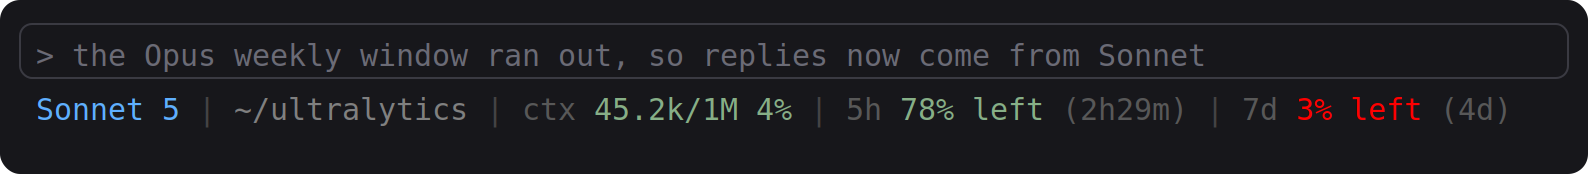
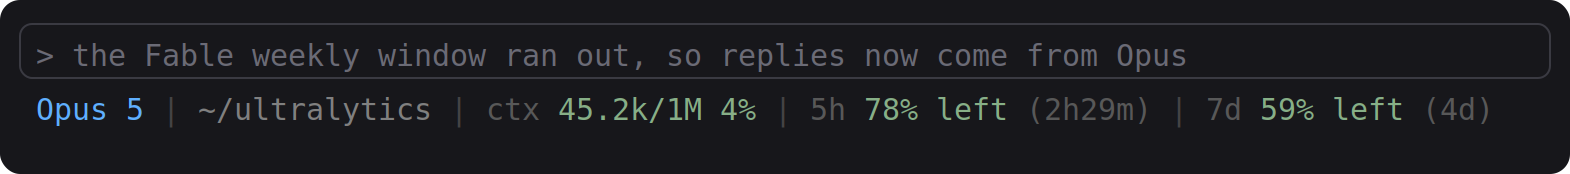
Use the Fable weekly window as the switch example

Changed region(s): [[0.0, 0.546, 0.9675, 0.7184], [0.0312, 0.2299, 0.7803, 0.4023]]

diff --git a/README.md b/README.md
@@ -21,17 +21,17 @@
 ## Highlights
 
 **It names the model that is actually answering.** Claude Code can switch models mid
-session, for example when the Opus weekly window runs out, and the payload it hands the
-status line still names the model the session started on. The name here comes from the
-last main loop reply in the session transcript instead, so the field flips to Sonnet on
-the first reply Sonnet writes. Subagent replies are ignored, so a Haiku subagent never
-takes over the field.
+session, for example when the Fable weekly window runs out and replies fall back to Opus,
+and the payload it hands the status line still names the model the session started on. The
+name here comes from the last main loop reply in the session transcript instead, so the
+field flips on the first reply the new model writes. Subagent replies are ignored, so a
+Haiku subagent never takes over the field.
 
 <img alt="model switch" src="assets/model-switch.png">
 
 **It shows the budget, not just the tokens.** Every window the account reports gets a
 percent left and a countdown to its reset: the 5 hour session window, the 7 day window,
-the per-model weekly windows such as Fable, and a spend limit when one applies.
+the Fable weekly window, and a spend limit when one applies.
 
 **It stays quiet about things you cannot act on.** The model name drops noise such as
 `(1M context)`, since the `ctx` field already shows the window, and the session cost in
@@ -84,11 +84,11 @@ To wire it by hand instead:
 `refreshInterval` keeps the reset countdown ticking. Claude Code also redraws the status
 line whenever token usage changes.
 
-## Per-model weekly windows (Fable, Opus, Sonnet)
+## The Fable weekly window
 
-The status line payload carries the session and weekly windows only. Plans that meter a
-model separately, such as the Fable window, have their own bars in `/usage`, and those
-come from the account usage endpoint. Pass `usage-api` to read them too:
+The status line payload carries the overall session and weekly windows only. A model that
+is metered separately, which today is Fable, has its own bar in `/usage`, and that comes
+from the account usage endpoint. Pass `usage-api` to read it too:
 
 ```bash
 ./install.sh minimal usage-api
@@ -96,8 +96,9 @@ come from the account usage endpoint. Pass `usage-api` to read them too:
 
 <img alt="usage-api mode" src="assets/usage-api.png">
 
-Each extra window is labeled with its own name (`fable`, `opus`, `sonnet`) and is shown
-only while the account reports it, so nothing appears if your plan has no such window.
+Each extra window is labeled with its own name, and is shown only while the account
+reports it, so nothing appears if your plan has no such window. Any other scoped window
+the endpoint starts reporting is picked up the same way.
 
 How it works: the script reads the OAuth token from `~/.claude/.credentials.json`, calls
 `GET /api/oauth/usage` on `api.anthropic.com`, and caches the answer for 2 minutes under
